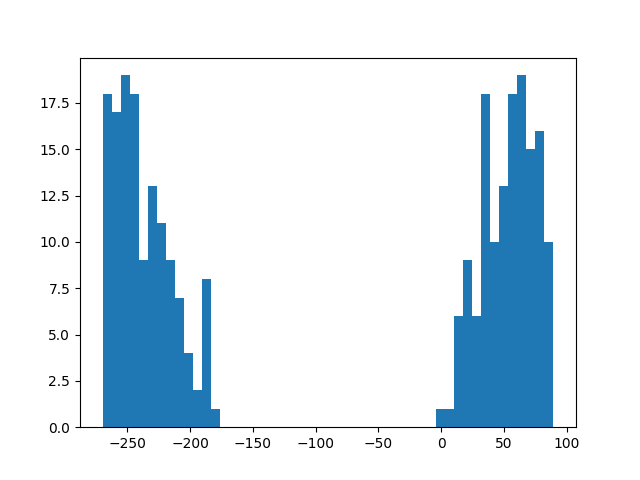
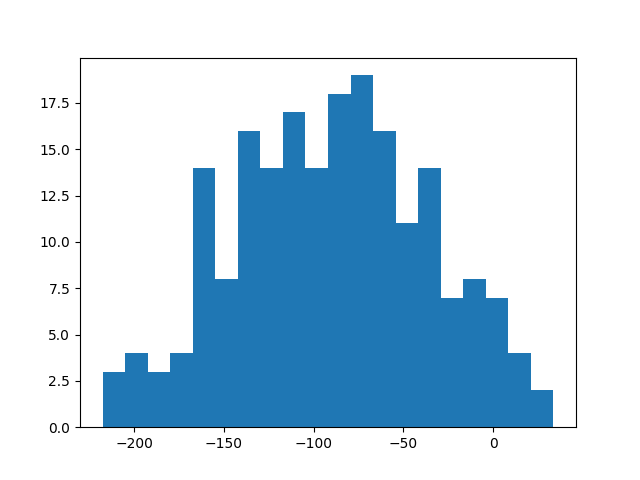
final

diff --git a/src/moonsystem.cpp b/src/moonsystem.cpp
@@ -42,7 +42,7 @@ void MoonSystem::RungeKutta(Particle &par,double ds,double &T)
     {
         ds=ds*(1.000001-exp(-par.R(earth)));   //tutaj tak samo ale zależy to od odległości od ziemi
     }
-    double dt=ds/par.velocity();                //konwertujemy stały krok odległości na krok czasowy
+    double dt=ds/par.velocity()+0.0000000000000001;                //konwertujemy stały krok odległości na krok czasowy plus pewna stała
     array<double,4> position=par.getpos();      //bierzym gdzie znajduje się cząteczka
     array<double,4> k1=Diff(position);          
     array<double,4> k2=Diff(position+dt/2*k1);
@@ -104,16 +104,15 @@ void MoonSystem::Simulate(int n,double R, double ds)
         Particle a;
         #pragma omp critical
         {
-            Particle temp(R,firstspacevel(1.52*AU,MS),firstspacevel(AU,MS),generator);
-            a=temp;
-            cout<<a.velocity()<<endl;
+            Particle temp(R,firstspacevel(1.52*AU,MS),firstspacevel(AU,MS),generator); //bierzemy ciała losowym położeniu oraz losowej prędkości o długości pierwszej prędkości kosmicznej
+            a=temp;                                                                    //na orbicie marsa i transformujemy do układu w którym ziemia spoczywa.
         }
         
         #pragma omp critical
-        cout<<"Calulating "<<i<<"th particle"<<endl;
+        cout<<"Calculating "<<i<<"th particle"<<endl;
         
         double T=0;
-        while(a.R(earth)<2*R && a.R(earth)>rearth && a.R(moon)>rmoon && T<3)
+        while(a.R(earth)<5*R && a.R(earth)>rearth && a.R(moon)>rmoon && T<3) //gdy cząsteczka oddali się na 5 razy początkowy dystans to kończymy, jak wleci w księżyc lub ziemię tak samo oraz gdy miną 3 okresy synodyczne
         {
             RungeKutta(a,ds,T);
         }

diff --git a/src/particle.cpp b/src/particle.cpp
@@ -22,8 +22,8 @@ Particle::Particle(double R,double M,mt19937 &generator)
 Particle::Particle(double R,double v,double vk, mt19937 &generator) //generujemy ciało w odległości R z prędkością v w losowym kieunku a potem przenosimy ją do układu ziemi
 {
     double an1=rangle(generator);       //losowy kąt wektora wodzącego
-    double an2=rangle(generator)/2;     //losowy kąt wzgledem wektora wodzacego
-    coords=array<double,4>{R*cos(an1),R*sin(an1),v*cos(an2),v*sin(an2)+vk};
+    double an2=rangle(generator);     //losowy kąt wzgledem wektora wodzacego
+    coords=array<double,4>{R*cos(an1),R*sin(an1),v*cos(an2),v*sin(an2)-vk};
     mass=0; //masa będzie zerowa bo nie ma ona znaczenia
 }
 Particle::Particle(array<double,4> pos,double m)

diff --git a/src/solarsystem.cpp b/src/solarsystem.cpp
@@ -36,7 +36,7 @@ void SolarSystem::RungeKutta(Particle &par,double ds,double &T)
     {
         ds=ds*(1.000001-exp(-par.R(earth)*1000));
     }
-    double dt=ds/par.velocity();
+    double dt=ds/par.velocity()+0.0000000000000001;
     array<double,4> position=par.getpos();
     array<double,4> k1=Diff(position);
     array<double,4> k2=Diff(position+dt/2*k1);
@@ -113,7 +113,7 @@ void SolarSystem::Simulate(int n,double R, double ds)
         cout<<"Calulating "<<i<<"th particle"<<endl;
         
         double T=0;
-        while(a.R()<2*AU && a.R()>rsun && a.R(earth)>rearth && a.R(moon)>rmoon && T<3*EP)
+        while(a.R()<5*R && a.R()>rsun && a.R(earth)>rearth && a.R(moon)>rmoon && T<3*EP)
         {
             RungeKutta(a,ds,T);
         }

diff --git a/src/utils.h b/src/utils.h
@@ -11,7 +11,7 @@ using namespace std;
 #define ME 1            // Masa ziemi
 #define MM 0.01234         //Masa księżyca
 #define MD 38400        //odleglość ziemia księżyc (w km)
-#define OMP_NUM 4 //ilość rdzeni
+#define OMP_NUM 5 //ilość rdzeni
 
 array<double,4> operator+(array<double,4> a,array<double,4> b);                     //dodawanie tablic
 array<double,4> operator*(double a,array<double,4> b);                              //mnożenie tablic przez skalar

diff --git a/plot.py b/plot.py
@@ -7,5 +7,5 @@ def get(name):
         for line in f:
             tab=[*tab,*line.split()]
     return list(map(float,tab))
-plt.hist(list(map(lambda x: 360*x/(2*math.pi), get(argv[1]))),bins=100)
+plt.hist(list(map(lambda x: 360*x/(2*math.pi), get(argv[1]))),bins=20)
 plt.show()

diff --git a/src/moonsystem.h b/src/moonsystem.h
@@ -1,5 +1,5 @@
-#ifndef MoonSystem_H
-#define MoonSystem_H
+#ifndef MOONSYSTEM_H
+#define MOONSYSTEM_H
 #include <array>
 #include <vector>
 #include "particle.h"
